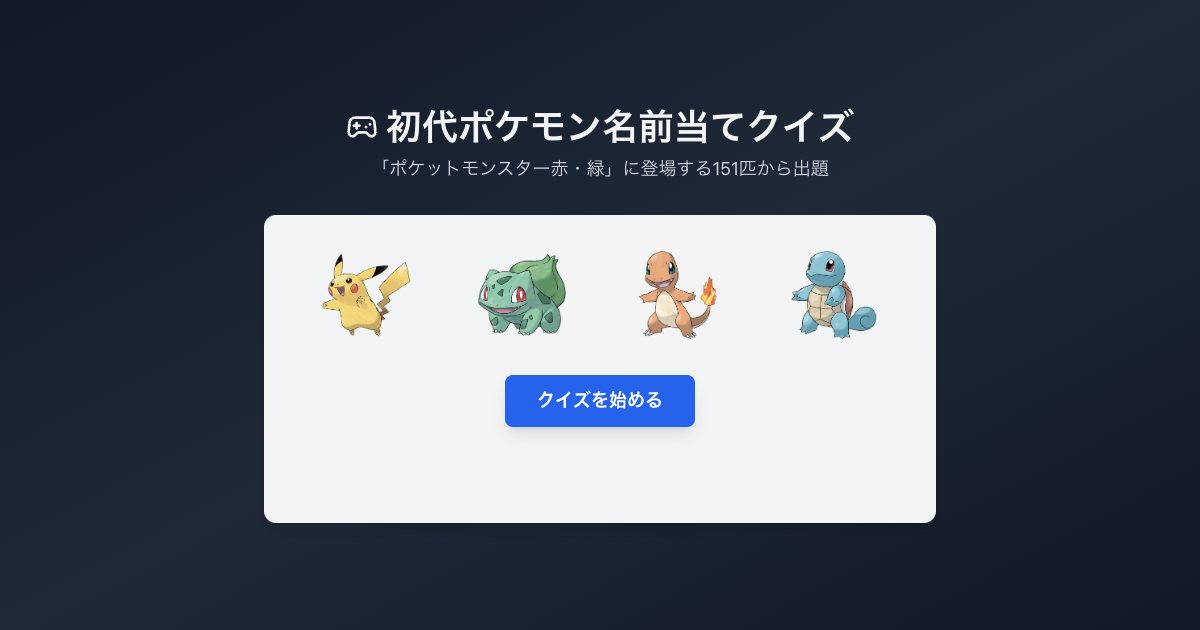
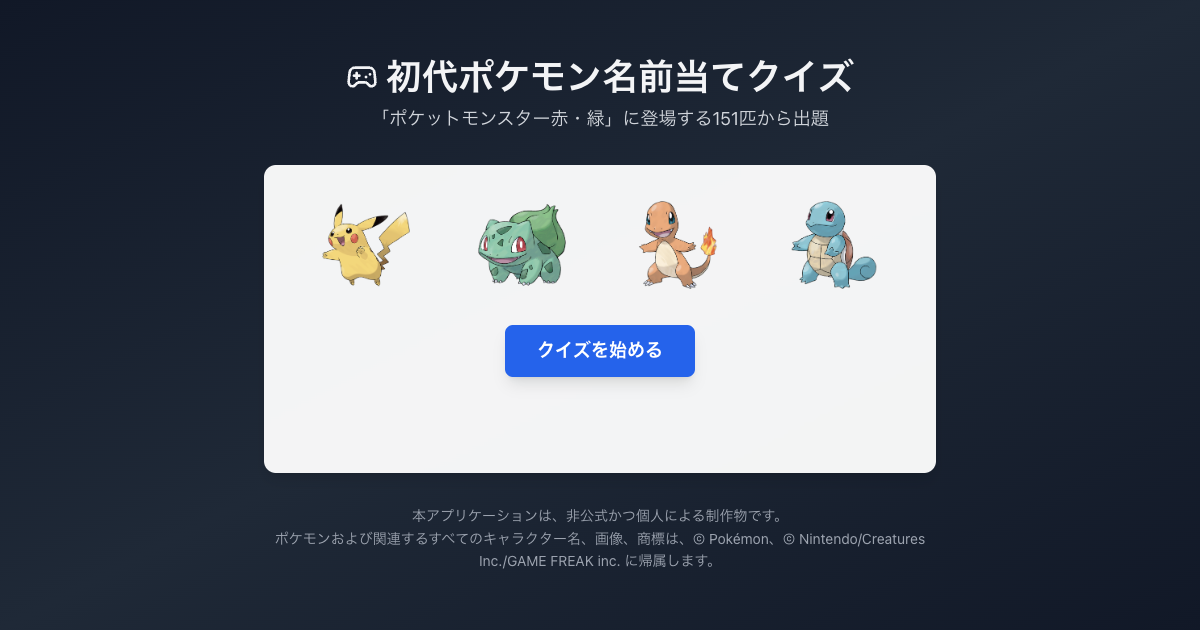
OGP descriptionを更新し、トップ画面スクリーンショットでog-imageを差し替え

Changed region(s): [[0.2158, 0.0905, 0.8017, 0.6937], [0.2158, 0.7238, 0.8017, 0.9048]]

diff --git a/index.html b/index.html
@@ -7,14 +7,14 @@
     <title>初代ポケモン名前当てクイズ</title>
     <!-- Open Graph meta tags -->
     <meta property="og:title" content="初代ポケモン名前当てクイズ" />
-    <meta property="og:description" content="赤・緑初登場ポケモン限定、懐かしくなれるクイズです。全10問。" />
+    <meta property="og:description" content="151匹のポケモンの中から、正解を当てるシルエットクイズです。" />
     <meta property="og:image" content="https://quiz-pokemon-151.vercel.app/og-image.png" />
     <meta property="og:url" content="https://quiz-pokemon-151.vercel.app/" />
     <meta property="og:type" content="website" />
     <!-- Twitter Card meta tags -->
     <meta name="twitter:card" content="summary_large_image" />
     <meta name="twitter:title" content="初代ポケモン名前当てクイズ" />
-    <meta name="twitter:description" content="赤・緑初登場ポケモン限定、懐かしくなれるクイズです。全10問。" />
+    <meta name="twitter:description" content="151匹のポケモンの中から、正解を当てるシルエットクイズです。" />
     <meta name="twitter:image" content="https://quiz-pokemon-151.vercel.app/og-image.png" />
   </head>
   <body>
